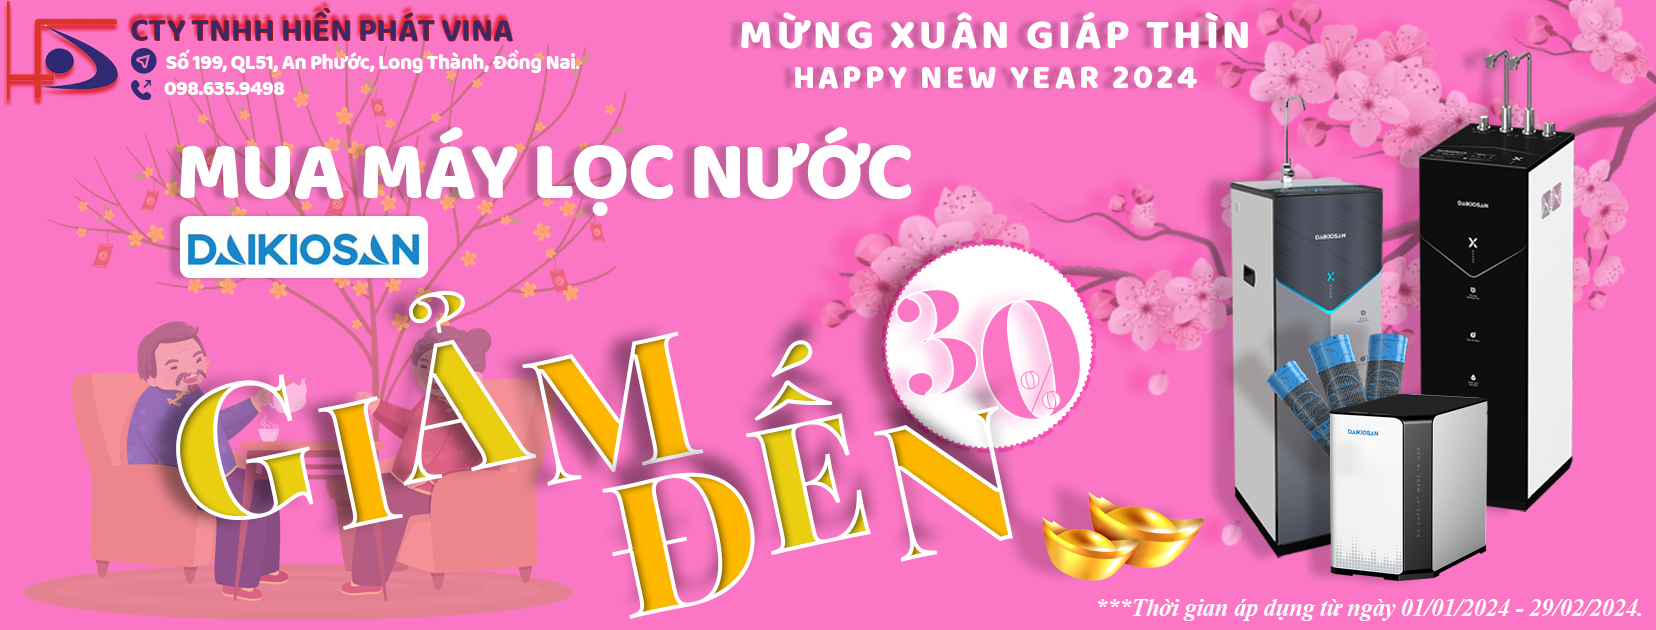
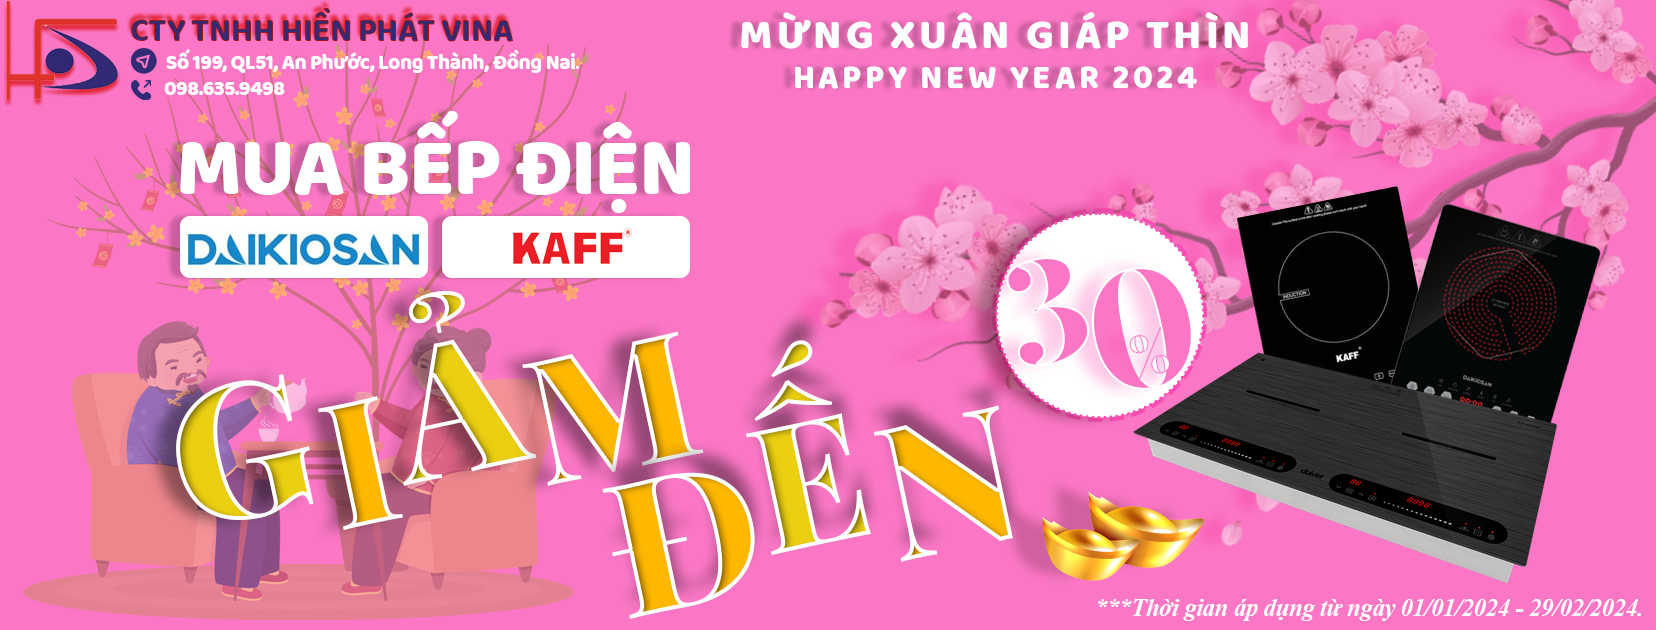
responsive, complete ul

Changed region(s): [[0.5236, 0.0603, 0.9855, 0.9349], [0.0924, 0.181, 0.5543, 0.4524], [0.7699, 0.1508, 0.8007, 0.181]]

diff --git a/src/pages/DonTetSaleHet.jsx b/src/pages/DonTetSaleHet.jsx
@@ -3,10 +3,12 @@ import { Link } from 'react-router-dom';
 
 import ScrollToTop from '../components/UI/ScrollToTop';
 import '../styles/don-tet-sale-het.css';
+import Footer from '../components/Footer/index';
 import logo from '../assets/img/icon/gashienphatlogo.png';
 import banner from '../assets/img/banner/DonTetSaleHet1.png';
-import banner2 from '../assets/img/banner/DonTetSaleHet_BepDien.png';
-import Footer from '../components/Footer/index';
+import banner2 from '../assets/img/banner/DonTetSaleHet_MayLocNuoc.png';
+import banner3 from '../assets/img/banner/DonTetSaleHet_BepDien.png';
+import ruleImg from '../assets/img/banner/asset-2bgr-20231120072644-om_8h.png';
 import mayLocNuoc from '../assets/data/mayLocNuoc.js';
 import bepDien from '../assets/data/bepDien.js';
 
@@ -35,7 +37,7 @@ const Header = () => {
           </Link>
 
           <div className=' border-2 rounded-full border-333 text-333'>
-            <div className=' px-4 py-2'>
+            <div className=' px-4 py-2  text-16 md:text-20'>
               <i className='fa-solid fa-phone-volume pr-2'></i>
               <a href='tel:0986359498'>
                 <b>0986 359 498</b>
@@ -58,15 +60,85 @@ const Body = () => {
       </section>
 
       <section className='container-1 services'>
-        <div className=' my-10'>
-          <ServiceList />
+        <ServiceList />
+      </section>
+
+      <section className='container-1 rule rounded-2xl '>
+        <div className='mt-10 text-center px-6 py-6 text-333'>
+          <div>
+            <h3 className=' text-30 font-bold'>THỂ LỆ</h3>
+            <ul className='text-20'>
+              <li>- Mỗi mã hàng chỉ có thể mua 1 sản phẩm</li>
+              <li>
+                - Sản phẩm chính hãng được bảo hành theo chính sách của hãng
+              </li>
+              <li>
+                - Áp dụng mua trực tiếp tại cửa hàng hoặc giao hàng trong khu
+                vực Long Thành
+              </li>
+            </ul>
+          </div>
+          <div className='font-bold text-20 bg-white py-4 my-2 mx-10 rounded-2xl text-[#fb77c5]'>
+            <i className='fa-solid fa-location-dot mr-2'></i>
+            199, QL 51, Xã An Phước, huyện Long Thành, tỉnh Đồng Nai
+            <a
+              className='px-2 py-2 ml-2 text-white bg-[#fb77c5] md:mt-0 mt-2 rounded-lg inline-block'
+              href='https://maps.app.goo.gl/YC47K6zwn6efQNK27'
+              target='_blank'
+            >
+              <i className='fa-solid fa-hand-point-right mr-2'></i>
+              Bản đồ
+            </a>
+          </div>
+        </div>
+      </section>
+
+      <section className='container-1 rule rounded-2xl '>
+        <div className='mt-10 px-6 py-6 text-333 grid md:grid-cols-2 grid-cols-1'>
+          <div>
+            <h3 className=' text-30 font-bold'>QUÀ TẶNG HẤP DẪN</h3>
+            <ul className='text-20'>
+              <li>
+                - Giảm giá trực tiếp lên đến <b>50%</b>
+              </li>
+              <li>
+                - Khi mua các sản phẩm của Daikiosan sẽ được tham gia chương
+                trình <b>BÃO QUÀ 38 TỶ</b>, chi tiết chương trình:
+              </li>
+            </ul>
+            <div className='text-20 bg-white py-4 px-4 my-2 rounded-2xl text-333'>
+              <h4 className='text-[#fb77c5]'>
+                <b>Lần 1: Kích hoạt bảo hành - trúng quà liền tay</b>
+              </h4>
+              <p>
+                Khi khách hàng mua sản phẩm và được Đại Lý của Đại Việt kích
+                hoạt bảo hành điện tử thành công thì sẽ có mã dự thưởng và được
+                tham gia “Vòng Quay Trúng Thưởng” trên ứng dụng điện thoại "Đại
+                Việt Go". Chọn mục “Vòng Quay Trúng Thưởng” và quét mã QR Code
+                của tem bảo hành dán trên sản phẩm. Khách hàng bấm vào “Quay
+                ngay” để thực hiện vòng quay và có cơ hội nhận được hàng ngàn
+                quà có tổng giá trị gần <b>6 TỶ đồng</b>.
+              </p>
+              <h4 className='text-[#fb77c5]'>
+                <b>Lần 2: Livestream quay số</b>
+              </h4>
+              <p>
+                Mã dự thưởng của khách hàng sẽ lưu trữ trên hệ thống của chương
+                trình để tiếp tục tham gia chương trình "Livestream quay số
+                trúng thưởng" với giá trị lên đến gần 500 triệu đồng. (Chương
+                trình Livestream sẽ diễn ra vào ngày <b>11.03.2024</b> tại
+                Fanpage Daikiosan).
+              </p>
+            </div>
+          </div>
+          <div className='md:block hidden'>
+            <img src={ruleImg} alt='' />
+          </div>
         </div>
       </section>
 
       <section className='container-1 sub-banner'>
-        <div className=' rounded-3xl overflow-hidden'>
-          <img src={banner2} alt='' />
-        </div>
+        <Banner img={banner2} />
       </section>
 
       <section className=' border-b-4 border-[#fb77c5]'>
@@ -82,13 +154,17 @@ const Body = () => {
           className=' bg-fixed bg-cover bg-no-repeat w-full mt-10'
         >
           <div className='container-1'>
-            <div className=' grid grid-cols-4 gap-4 py-[20px]'>
+            <div className=' grid grid-cols-2 md:grid-cols-4 gap-4 py-[20px]'>
               {mayLocNuoc.map((i, index) => (
                 <ProductCard item={i} key={index} />
               ))}
             </div>
           </div>
         </div>
+      </section>
+
+      <section className='container-1 sub-banner'>
+        <Banner img={banner3} />
       </section>
 
       <section>
@@ -102,7 +178,7 @@ const Body = () => {
           className=' bg-fixed bg-cover bg-no-repeat w-full mt-10 mb-[-20px]'
         >
           <div className='container-1'>
-            <div className=' grid grid-cols-4 gap-4 py-[20px]'>
+            <div className=' grid grid-cols-2 md:grid-cols-4 gap-4 py-[20px]'>
               {bepDien.map((i, index) => (
                 <ProductCard item={i} key={index} />
               ))}
@@ -110,6 +186,14 @@ const Body = () => {
           </div>
         </div>
       </section>
+    </div>
+  );
+};
+
+const Banner = ({ img }) => {
+  return (
+    <div className=' rounded-3xl overflow-hidden mt-10'>
+      <img src={img} alt='' />
     </div>
   );
 };
@@ -135,7 +219,7 @@ const servicesData = [
 
 const ServiceList = () => {
   return (
-    <div className='flex justify-around select-none'>
+    <div className=' grid grid-cols-2 md:grid-cols-4 gap-10 justify-center items-center select-none mt-10'>
       {servicesData.map((item, index) => (
         <ServiceCard item={item} key={index} />
       ))}
@@ -146,9 +230,9 @@ const ServiceList = () => {
 const ServiceCard = ({ item }) => {
   const { icon, desc } = item;
   return (
-    <div className=' rounded-3xl overflow-hidden border shadow-md w-72 h-72'>
-      <div className=' flex items-center justify-center flex-col h-full px-10 py-10 service-card-item text-primary'>
-        <i className={`text-4xl ${icon}`}></i>
+    <div className=' rounded-3xl overflow-hidden border shadow-md h-60'>
+      <div className=' flex items-center justify-center flex-col h-full px-10 py-10 service-card-item text-333'>
+        <i className={`text-5xl ${icon}`}></i>
         <p className='text-16 text-center mt-4'>{desc}</p>
       </div>
     </div>
@@ -169,12 +253,14 @@ const ProductCard = ({ item }) => {
       </div>
       <div className='mx-6 my-6'>
         <h2 className='font-medium text-20'>{productName}</h2>
-        <span className='text-red-500 font-bold text-20 mr-2'>
-          {currentPrice.toLocaleString()}đ
-        </span>
-        <span className=' line-through text-[#999] text-16'>
-          {oldPrice.toLocaleString()}đ
-        </span>
+        <div className=' flex flex-col md:flex-row'>
+          <span className='text-red-500 font-bold text-20 mr-2'>
+            {currentPrice.toLocaleString()}đ
+          </span>
+          <span className=' line-through text-[#999] text-16'>
+            {oldPrice.toLocaleString()}đ
+          </span>
+        </div>
       </div>
       {/* <div className='mx-6 my-6'>
         {description.map((d, index) => (

diff --git a/src/assets/data/bepDien.js b/src/assets/data/bepDien.js
@@ -3,6 +3,9 @@ import productImg02 from '../img/product/Daikiosan-dkt-200006_5910.png';
 import productImg03 from '../img/product/daikiosan-dkn-100002_1200.png';
 import productImg04 from '../img/product/daikiosan-dkt-100002_1200.png';
 import productImg05 from '../img/product/Kaff-kf330i.png';
+import productImg06 from '../img/product/kaff-kf-fl866gih.png';
+import productImg07 from '../img/product/kaff-kf-fl866gii.png';
+import productImg08 from '../img/product/Kangagroo-kg435i_front.png';
 
 const bepDien = [
   {
@@ -34,6 +37,24 @@ const bepDien = [
     productName: 'Bếp từ đơn Kaff KF-330I',
     oldPrice: 3080000,
     currentPrice: 2310000,
+  },
+  {
+    imgUrl: productImg06,
+    productName: 'Bếp từ đôi Kaff KF-FL866GII',
+    oldPrice: 14800000,
+    currentPrice: 11100000,
+  },
+  {
+    imgUrl: productImg07,
+    productName: 'Bếp từ đôi Kaff KF-FL866GIH',
+    oldPrice: 14800000,
+    currentPrice: 11100000,
+  },
+  {
+    imgUrl: productImg08,
+    productName: 'Bếp điện từ đôi Kangaroo KG435i',
+    oldPrice: 8000000,
+    currentPrice: 5600000,
   },
 ];
 

diff --git a/src/styles/don-tet-sale-het.css b/src/styles/don-tet-sale-het.css
@@ -6,10 +6,6 @@
     @apply mx-auto xl:max-w-[1200px] max-xl:px-2;
 }
 
-.service-card-item {
-    background-image: linear-gradient(to bottom right, #fb77c5, white);
-}
-
-.product-card {
+.rule, .service-card-item, .product-card {
     background-image: linear-gradient(to bottom right, #fb77c5, white);
 }
